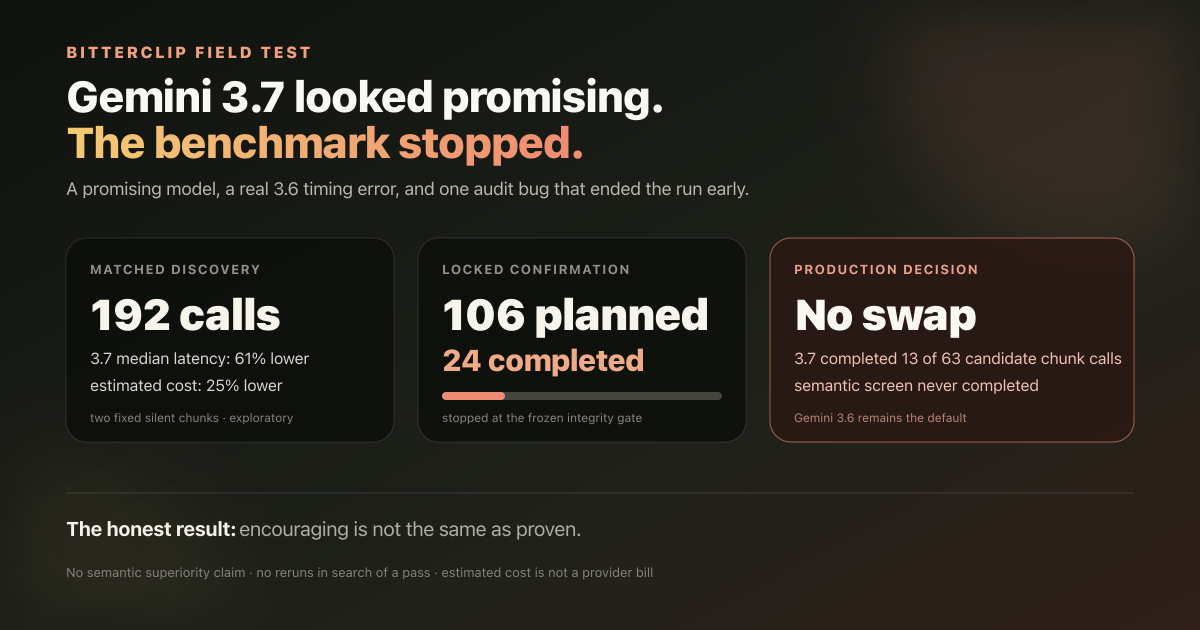
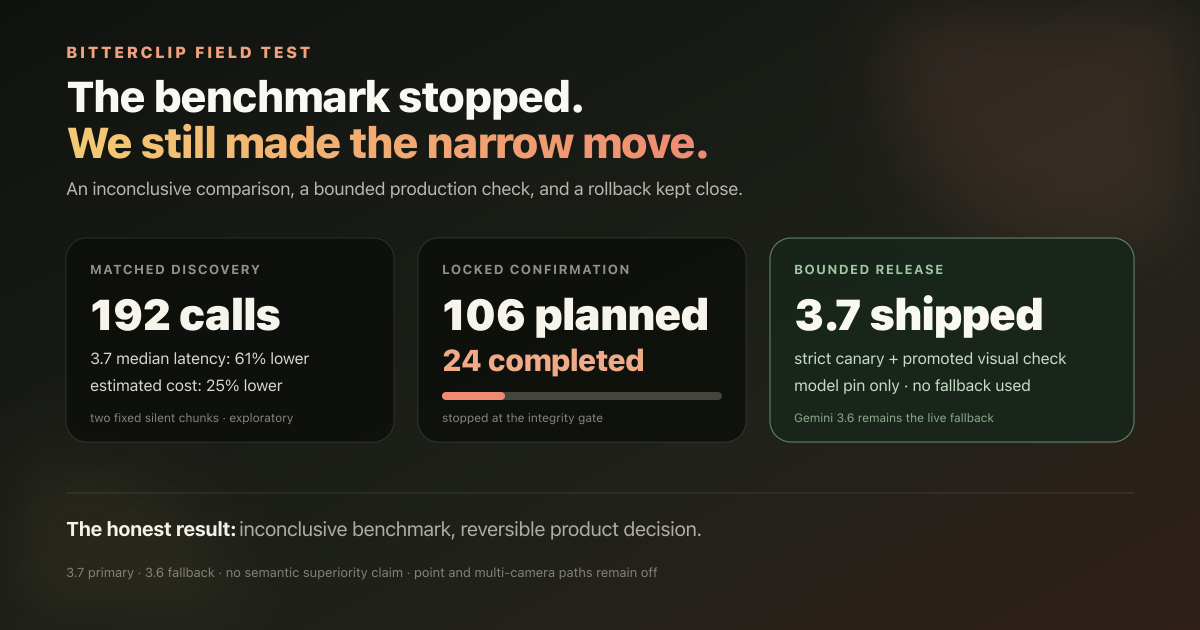
Publish bounded Gemini 3.7 release decision

diff --git a/qa/smoke.spec.ts b/qa/smoke.spec.ts
@@ -301,7 +301,10 @@ test('renders the Gemini 3.7 benchmark post and its public evidence boundaries',
   await expect(page.locator('article')).toContainText('24.6% lower')
   await expect(page.locator('article')).toContainText('146 → 20.8')
   await expect(page.locator('article')).toContainText('The honest result is inconclusive')
-  await expect(page.locator('article')).toContainText('BitterClip remains on gemini-3.6-flash')
+  await expect(page.locator('article')).toContainText(
+    'Gemini 3.7 is now BitterClip’s default visual-analysis model',
+  )
+  await expect(page.locator('article')).toContainText('Gemini 3.6 is the live fallback')
   await expect(page.locator('article')).toContainText('13 of its required 63 responses')
   await expect(page.locator('article')).toContainText('94 evaluated units')
   await expect(page.locator('article')).toContainText('multi-camera path stayed off')
@@ -352,7 +355,7 @@ test('serves crawlable markdown alternates and discovery files', async ({ reques
     { path: '/blog/a-condensed-memory-of-the-work.md', text: 'a condensed memory of the work' },
     {
       path: '/blog/gemini-3-7-multiple-witnesses.md',
-      text: 'But promising is not the same as proven',
+      text: 'We upgraded BitterClip’s visual-analysis default to Gemini 3.7',
     },
     { path: '/privacy.md', text: 'BitterClip does not sell your recordings' },
     { path: '/terms.md', text: 'You retain your rights in recordings' },
@@ -407,5 +410,7 @@ test('serves crawlable markdown alternates and discovery files', async ({ reques
   expect(llmsFullText).toContain('Troubleshooting')
   expect(llmsFullText).toContain('Your show has a signature now')
   expect(llmsFullText).toContain('Know what mattered in the recording')
-  expect(llmsFullText).toContain('But promising is not the same as proven')
+  expect(llmsFullText).toContain(
+    'We upgraded BitterClip’s visual-analysis default to Gemini 3.7',
+  )
 })

diff --git a/content/blog/gemini-3-7-multiple-witnesses.md b/content/blog/gemini-3-7-multiple-witnesses.md
@@ -1,12 +1,12 @@
 ---
 title: "We blamed Gemini 3.7. Then Gemini 3.6 went backward too."
-description: "Gemini 3.7 was faster and had a lower estimated cost in our fixed video tests. Here is why BitterClip still did not ship it."
+description: "Gemini 3.7 was faster and had a lower estimated cost in our fixed video tests. Our big confirmation stopped early. Here is why we still made a small, reversible upgrade."
 date: '2026-08-14'
 updated: '2026-08-15'
 author: Michael Ruescher, Founder
 ogImage: /images/blog/gemini-3-7-benchmark/gemini-3-7-benchmark-og.png
 heroImage: /images/blog/gemini-3-7-benchmark/gemini-3-7-benchmark-chart.svg
-heroAlt: Gemini 3.7 visual benchmark summary showing a promising discovery result, a stopped confirmation, and no production model switch.
+heroAlt: Gemini 3.7 visual benchmark summary showing a promising discovery result, a stopped confirmation, and a bounded production upgrade with Gemini 3.6 as fallback.
 tags:
   - Gemini
   - visual understanding
@@ -34,11 +34,12 @@ model?” We were asking, “What is wrong with the job we gave both models?”
 The answer turned out to be more useful than a simple model ranking. Gemini 3.7
 was much faster in our fixed-chunk tests, and cheaper by rate-card estimate.
 Nothing in the work we completed established that it understood the footage
-worse. But we still did not ship it, because the production-shaped confirmation
-stopped before the model earned the change.
+worse. But our production-shaped confirmation still stopped before it could
+answer the larger comparison.
 
 This is the story of the bad question, the better one, and the test that caught
-one more bug—ours.
+one more bug—ours. It is also the story of how we eventually shipped the narrow
+change without pretending the unfinished test had passed.
 
 ## What we were asking Gemini to see
 
@@ -174,7 +175,8 @@ temporary promotional tariff. The difference came from the token mix we
 observed—especially fewer thinking tokens from 3.7—not a cheaper rate. These are
 rate-card estimates, not a reconciled provider bill. ([Gemini API pricing](https://ai.google.dev/gemini-api/docs/pricing))
 
-This was enough to make 3.7 the candidate. It was not enough to ship it.
+This was enough to make 3.7 the candidate. It was not enough, by itself, to
+ship it.
 
 Two chunks can test a response contract and expose a large speed difference.
 They cannot establish semantic parity across real footage. We still needed to
@@ -202,8 +204,8 @@ direct model comparison.
 
 The plan required 63 point-contract responses from each model. It also included
 a smaller strict version of the current Gemini 3.6 interval package and a
-semantic safety screen grounded in previously reviewed footage. The candidate
-could not ship on structural validity alone.
+semantic safety screen grounded in previously reviewed footage. The locked
+comparison could not authorize the candidate on structural validity alone.
 
 The run made it through 24 jobs. Then Gemini 3.6 returned a sequence of evidence
 points that moved backward.
@@ -232,7 +234,7 @@ We later performed one read-only Files inventory and found no remote files
 remaining. That establishes current absence. It does not prove the missing
 original delete, and it does not convert the stopped run into a pass.
 
-## No winner, no migration
+## No winner
 
 At the stop, Gemini 3.7 had completed eight point-contract jobs covering 13
 chunk responses without a catastrophic failure. That is encouraging. The gate
@@ -240,14 +242,58 @@ required 63 responses, and the semantic screen had not run.
 
 The honest result is **inconclusive**.
 
-The partial run did not establish a winner. Gemini 3.7 also did not finish the
-test required to earn a customer-facing change. We did not rerun the failed job,
+The partial run did not establish a winner. We did not rerun the failed job,
 replace the missing denominator, or weaken the gate after seeing the output.
 
-So BitterClip remains on `gemini-3.6-flash`, with the existing
-`gemini-3.5-flash-lite` fallback. The point contract is not active in ordinary
-production, and neither is the experimental multi-camera synthesis path. No
-rollback was necessary because the production model never changed.
+That settled the research result. It did not settle the product decision.
+
+Restarting the hundred-job comparison would answer the scientific question. We
+had a separate, narrower product question: did the accumulated evidence justify
+a reversible pin-only trial with a live fallback? We already knew four things:
+both models could fail the old timing contract; we had not found a 3.7-specific
+vision regression; 3.7 was materially faster and cheaper by estimate on the
+matched workload; and the model pin was easy to reverse.
+
+So we made a smaller decision than the benchmark had tried to make.
+
+## What we shipped
+
+First, we ran one strict, nonpromoting canary through BitterClip’s real B5 path.
+It covered two video chunks. Both calls requested and served Gemini 3.7 on the
+first attempt, ended normally, returned direct JSON, passed the production
+normalization checks, and cleaned up their temporary uploads. Nothing reached a
+customer-facing projection. The rate-card estimate was about eight cents.
+
+Then we changed only the visual-analysis pins: Gemini 3.7 became the primary
+model and Gemini 3.6 became its fallback. The analyzer and existing interval
+contract stayed put. The point contract and multi-camera synthesis path stayed
+off.
+
+Finally, we ran one promoting visual-path acceptance on a one-minute recording.
+Before starting it, we found that a completely ordinary completion would also
+kick off copywriting work and could fan visual processing out across 17 other
+recordings. That was unrelated to the model decision, expensive, and exactly the
+kind of accidental “one more test” we wanted to avoid. We suppressed those two
+downstream actions inside the isolated acceptance process and tested the visual
+path itself.
+
+The single Gemini call requested the deployed default, served 3.7 without using
+the fallback, ended with `STOP`, returned direct JSON, and deleted its upload.
+BitterClip normalized and stitched the result, wrote the run artifacts, and
+indexed eight visual actions. There was no second attempt. The estimate was just
+under two cents.
+
+The visual path completed, but the acceptance runner still marked its outer
+receipt failed because it expected a field that ordinary, non-strict mode never
+emits. We kept that receipt, inspected the preserved artifact without calling the
+model again, and found only two structural notes: the chunks had been stitched,
+and the B5 analyzer label had been enforced. There was no timestamp repair,
+reversal, or out-of-window warning. We recorded the correction as an amendment
+instead of rerunning for a prettier receipt.
+
+Gemini 3.7 is now BitterClip’s default visual-analysis model. Gemini 3.6 is the
+live fallback. If wider use exposes a problem, rollback is another pin-only
+change: restore Gemini 3.6 as primary and Gemini 3.5 Flash-Lite as fallback.
 
 | What we can say | What we cannot say |
 | --- | --- |
@@ -256,10 +302,12 @@ rollback was necessary because the production model never changed.
 | Both models produced temporal-contract failures somewhere in the workshop. | The final run proves one model is more reliable. |
 | The point contract removed per-row start/end reversal by construction and passed 48/48 discovery calls. | Point timestamps universally solve temporal grounding. |
 | The final confirmation stopped with 13 of 63 candidate chunk responses complete. | 3.7 passed semantic noninferiority or multi-camera understanding. |
+| One strict canary and one promoting visual-path acceptance completed on 3.7 without fallback. | The acceptance covered copy authoring, session-wide fanout, or every ordinary post-processing step. |
+| BitterClip made a bounded, reversible production change. | The benchmark proved 3.7 semantically superior. |
 
-## What changed anyway
+## What changed beyond the model
 
-The production model did not change. Our design did.
+The production model changed. More importantly, our design did.
 
 The workshop established a better boundary between model judgment and host
 responsibility:
@@ -276,9 +324,9 @@ responsibility:
 - Fail closed when exact model identity, completion, cleanup, or customer
   projection cannot be proved.
 
-The point path and its corrected version-2 failure collector are prospective
-development work. They have not been activated as the production default, and
-they do not rewrite the stopped result.
+The failure collector is now hardened for version-2 diagnostics. The point path
+itself remains prospective: it is not the production default, and none of that
+work rewrites the stopped result.
 
 That distinction matters. Good instrumentation is not a retroactive pass. A
 better contract is not proof that a new model is better. And a fast model is not
@@ -287,14 +335,16 @@ fails.
 
 ## The honest answer
 
-Gemini 3.7 still looks like a model I want BitterClip to use. It was faster in
-our fixed-chunk tests, and nothing we saw established that it understands the
-footage worse.
+We upgraded BitterClip’s visual-analysis default to Gemini 3.7.
 
-But promising is not the same as proven, and an unfinished confirmation is not
-a production gate.
+Not because the benchmark proved it was the smarter model. It did not. We
+shipped because the matched tests showed a large operational advantage, the
+failures were not unique to 3.7, the deployed B5 visual path passed a deliberately
+small canary and acceptance, and the rollback remained simple.
 
-So 3.6 stays put for now.
+That is less dramatic than declaring a benchmark winner. It is also how I want
+us to make product decisions: say exactly what the evidence supports, make the
+smallest useful move, and keep a clean way back.
 
 ---
 
@@ -316,12 +366,20 @@ stability, not factual correctness.
 The final confirmation was prospectively locked at 106 jobs and 164 planned
 chunk responses. It stopped at 24 jobs and 39 registered responses. Gemini 3.7
 contributed 13 of its required 63 responses; the semantic comparison never ran.
-Treating those repeated fixed-corpus calls as independent and exchangeable would put the one-sided 95%
-upper failure bound for 0/13 at about 20.6%, but that assumption is debatable and
-the incomplete denominator is the more important fact.
+Treating those repeated fixed-corpus calls as independent and exchangeable would
+put the one-sided 95% upper failure bound for 0/13 at about 20.6%, but that
+assumption is debatable and the incomplete denominator is the more important
+fact.
+
+The later release decision was separate. One strict nonpromoting canary made two
+Gemini 3.7 chunk calls. The promoting default-config visual-path acceptance made
+one more. It intentionally did not test queue dispatch, copy-authoring inference,
+session-wide visual fanout, whole-session synthesis, or full ordinary
+post-processing. Those three calls support the narrow deployed visual-path claim
+in this article, not semantic superiority or a population-wide reliability rate.
 
 Across the full workshop, cumulative estimated or conservatively reserved
-provider exposure was $32.17 under a $50 authorization. Actual billed cost is
+provider exposure was $32.27 under a $50 authorization. Actual billed cost is
 unknown. Raw media, transcript text, model bodies, internal identifiers, and the
 private truth set are not published.
 

diff --git a/CHANGELOG.md b/CHANGELOG.md
@@ -34,9 +34,13 @@ under a dated entry.
   went backward too." The article separates a shared timestamp-contract problem
   from model quality, reports the fixed-corpus latency and estimated-cost gains,
   discloses the failed multi-witness repeatability and mismatch gates, and
-  explains why a stopped production confirmation meant no model switch. Added
-  privacy-safe explanatory diagrams and charts while keeping footage, private
-  transcript material, and raw provider responses out of the public site.
+  preserves the stopped production confirmation as inconclusive. The final
+  update documents the later bounded, reversible product decision: Gemini 3.7
+  became the visual-analysis primary after one strict canary and one narrowed
+  promoting visual-path acceptance, with Gemini 3.6 retained as fallback and no
+  semantic-superiority claim. Added privacy-safe explanatory diagrams and charts
+  while keeping footage, private transcript material, and raw provider responses
+  out of the public site.
 - Added a creator-facing Google Takeout import guide covering archive setup,
   split ZIP handling, metadata and source-privacy provenance, Project mapping,
   resumable one-by-one Episode ingestion, video-quality limits, and the clear
